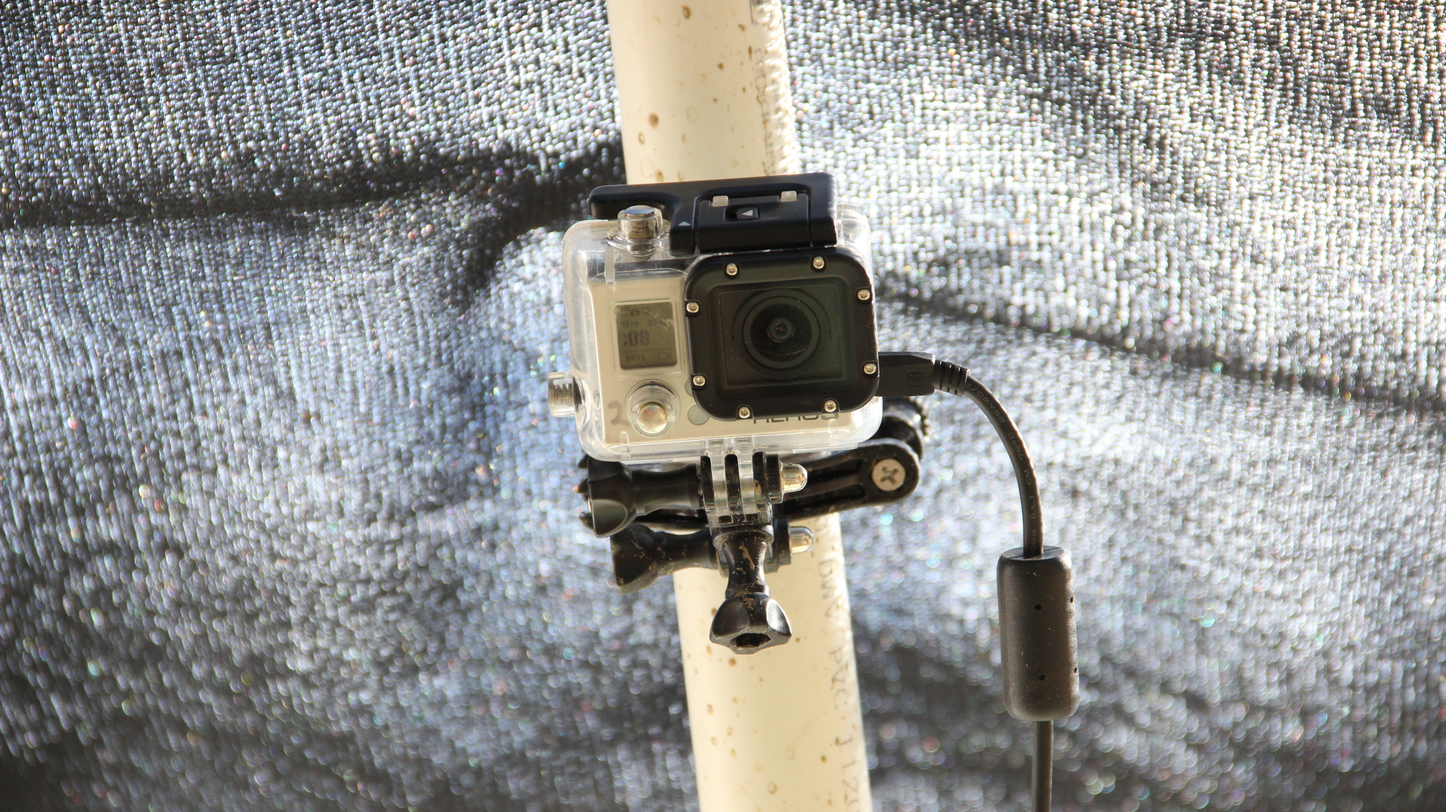
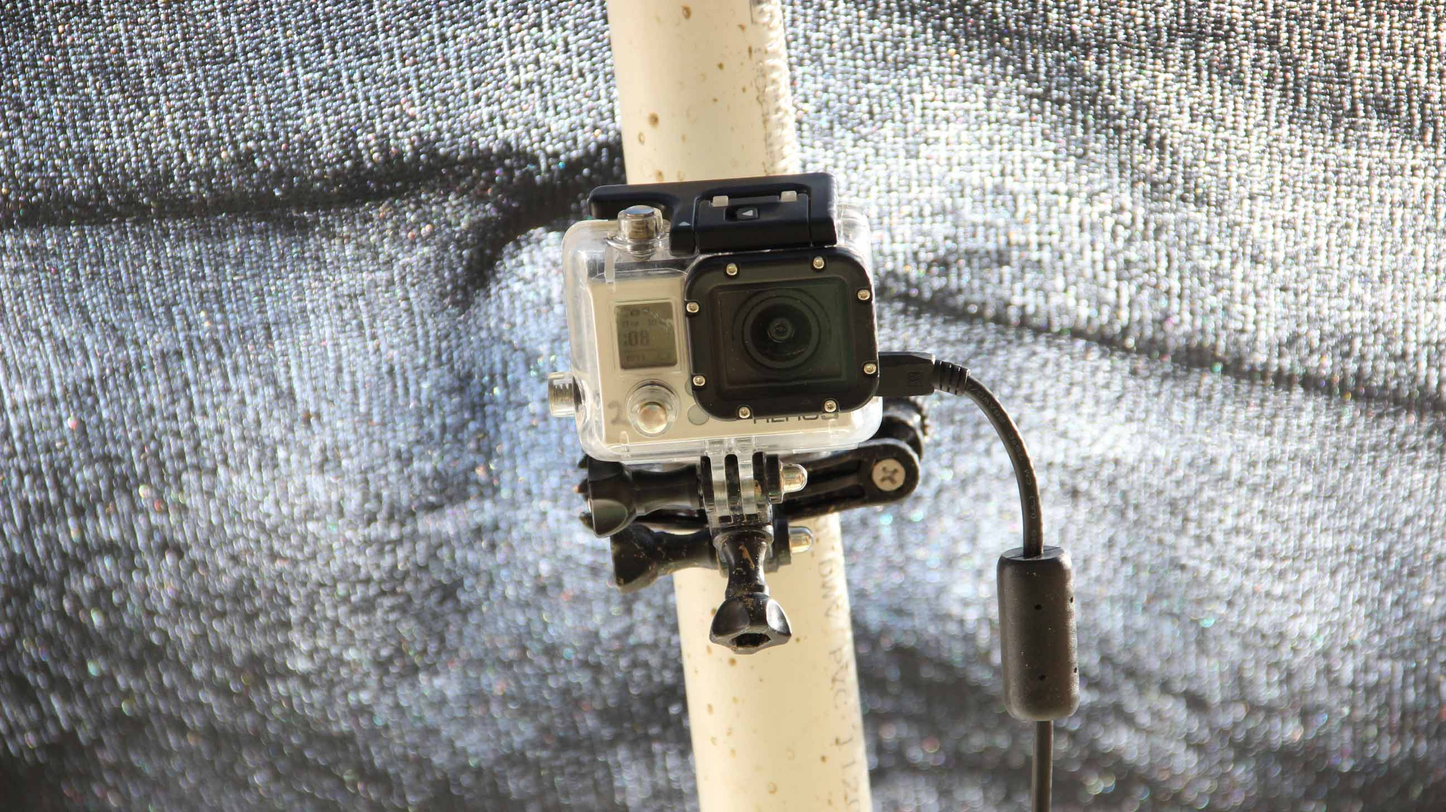
added bottom-of-page next/previous chapter links to chapter pages, resized some images for quicker loading

Changed region(s): [[0.0, 0.0, 0.4062, 0.1854], [0.75, 0.0, 1.0, 0.1545], [0.2188, 0.1236, 0.25, 0.1545]]

diff --git a/chapter/3.html b/chapter/3.html
@@ -94,7 +94,14 @@ region of the Lower Salmon River Canyon from 7,000-13,500 years in the past.</p>
           <p></p><img class="featurette-image img-responsive center-block" src="../img/measuring.JPG" data-src="holder.js/500x500/auto" alt="Generic placeholder image">
         </div>
       </div>
-      <hr>
+      
+     <div class="row">
+         <br>
+         <div style="float:left;"><a href="/chapter/2.html">Previous Chapter</a></div>
+         <div style="float:right;"><a href="/chapter/4.html">Next Chapter</a></div>
+        </div>    
+    
+        <hr>
       <!-- FOOTER -->
       <footer>
         <p class="pull-right"><a href="#">Back to top</a></p>

diff --git a/chapter/1.html b/chapter/1.html
@@ -93,6 +93,11 @@
           <p></p><img class="featurette-image img-responsive center-block" src="../img/map.png" data-src="holder.js/500x500/auto" alt="Generic placeholder image">
         </div>
       </div>
+        
+    <div class="row">
+        <br>
+        <div style="float:right;"><a href="/chapter/2.html">Next Chapter</a></div>
+        </div>
       
       <hr>
       <!-- FOOTER -->

diff --git a/chapter/2.html b/chapter/2.html
@@ -92,6 +92,12 @@
       </div>
     </div><!--/row-->
       
+     <div class="row">
+         <br>
+         <div style="float:left;"><a href="/chapter/1.html">Previous Chapter</a></div>
+         <div style="float:right;"><a href="/chapter/3.html">Next Chapter</a></div>
+        </div>
+        
       <hr>
       <!-- FOOTER -->
       <footer>

diff --git a/chapter/4.html b/chapter/4.html
@@ -99,6 +99,12 @@
         </div>
       </div>
       
+     <div class="row">
+         <br>
+         <div style="float:left;"><a href="/chapter/3.html">Previous Chapter</a></div>
+         <div style="float:right;"><a href="/chapter/5.html">Next Chapter</a></div>
+        </div>
+        
       <hr>
       <!-- FOOTER -->
       <footer>

diff --git a/chapter/5.html b/chapter/5.html
@@ -120,6 +120,11 @@
         </div>
       </div>
 
+     <div class="row">
+         <br>
+         <div style="float:left;"><a href="/chapter/4.html">Previous Chapter</a></div>
+        </div>
+        
       <hr>
       <!-- FOOTER -->
       <footer>
